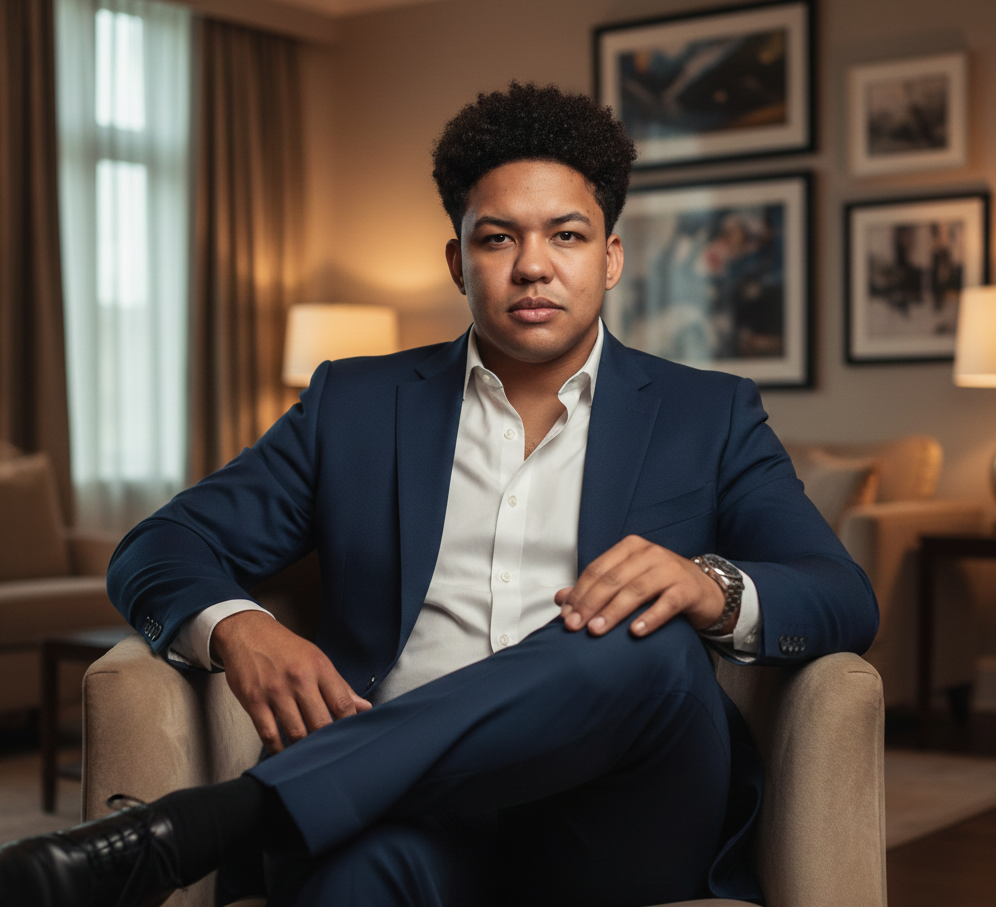
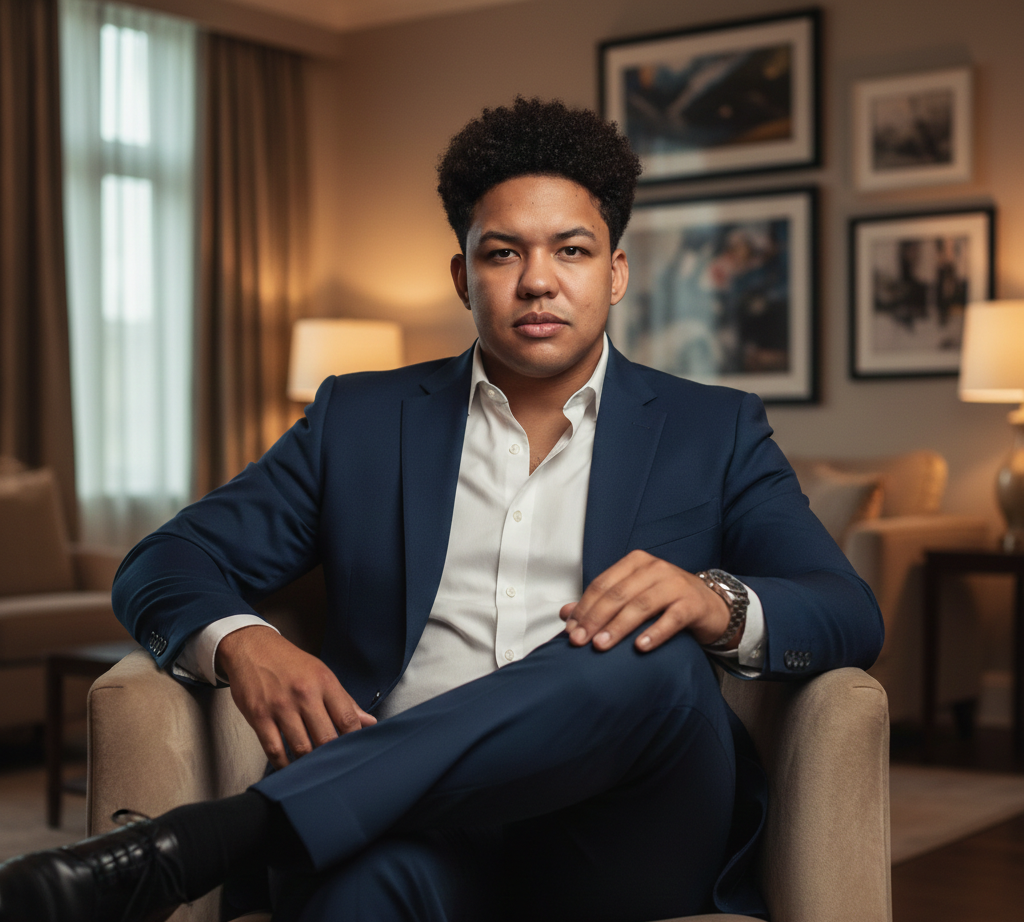
Changes

diff --git a/src/pages/Index.tsx b/src/pages/Index.tsx
@@ -382,49 +382,54 @@ const Index = () => {
       {/* Quem opera */}
       <section id="quem-opera" className="section-spacing border-b border-border">
         <div className="container-premium">
-          <div className="mx-auto max-w-2xl text-center">
-            <div className="scroll-reveal-scale mb-8">
+          <div className="grid gap-12 lg:gap-16 lg:grid-cols-2 items-center">
+            {/* Texto à esquerda */}
+            <div className="order-2 lg:order-1 text-center lg:text-left">
+              <h2 className="scroll-reveal font-display text-2xl font-semibold md:text-3xl lg:text-4xl text-foreground">
+                Quem está por trás da operação
+              </h2>
+              <p className="scroll-reveal reveal-delay-1 mt-6 text-muted-foreground leading-relaxed">
+                Alisson atua diretamente na coordenação, negociação e execução das demandas.<br />
+                O atendimento é feito sem intermediação, com padrão definido, previsibilidade e comunicação objetiva.
+              </p>
+              <div className="scroll-reveal reveal-delay-2 mt-8 flex items-center justify-center lg:justify-start gap-5">
+                <a
+                  href="https://www.instagram.com/alissonkennedy_/"
+                  target="_blank"
+                  rel="noopener noreferrer"
+                  className="h-10 w-10 rounded-full bg-primary/15 flex items-center justify-center text-primary transition-all duration-300 hover:bg-primary hover:text-primary-foreground hover:scale-110 border border-primary/30"
+                  aria-label="Instagram"
+                >
+                  <Instagram className="h-5 w-5" />
+                </a>
+                <a
+                  href="https://www.linkedin.com/in/alisson-kennedy/"
+                  target="_blank"
+                  rel="noopener noreferrer"
+                  className="h-10 w-10 rounded-full bg-primary/15 flex items-center justify-center text-primary transition-all duration-300 hover:bg-primary hover:text-primary-foreground hover:scale-110 border border-primary/30"
+                  aria-label="LinkedIn"
+                >
+                  <Linkedin className="h-5 w-5" />
+                </a>
+              </div>
+              <a
+                href={WHATSAPP_URL}
+                target="_blank"
+                rel="noopener noreferrer"
+                className="scroll-reveal reveal-delay-3 btn-primary mt-10 inline-flex"
+              >
+                Falar com o Alisson
+              </a>
+            </div>
+            
+            {/* Foto à direita */}
+            <div className="order-1 lg:order-2 scroll-reveal-scale flex justify-center lg:justify-end">
               <img 
                 src={alissonPhoto} 
                 alt="Alisson Kennedy - Assistente Pessoal Premium em São Paulo" 
-                className="w-40 h-40 md:w-48 md:h-48 rounded-full mx-auto object-cover border-4 border-primary/30 shadow-lg"
+                className="w-80 h-80 md:w-[400px] md:h-[400px] lg:w-[450px] lg:h-[450px] rounded-2xl object-cover border-4 border-primary/30 shadow-2xl"
               />
             </div>
-            <h2 className="scroll-reveal font-display text-2xl font-semibold md:text-3xl lg:text-4xl text-foreground">
-              Quem está por trás da operação
-            </h2>
-            <p className="scroll-reveal reveal-delay-1 mt-6 text-muted-foreground leading-relaxed">
-              Alisson atua diretamente na coordenação, negociação e execução das demandas.<br />
-              O atendimento é feito sem intermediação, com padrão definido, previsibilidade e comunicação objetiva.
-            </p>
-            <div className="scroll-reveal reveal-delay-2 mt-8 flex items-center justify-center gap-5">
-              <a
-                href="https://www.instagram.com/alissonkennedy_/"
-                target="_blank"
-                rel="noopener noreferrer"
-                className="h-10 w-10 rounded-full bg-primary/15 flex items-center justify-center text-primary transition-all duration-300 hover:bg-primary hover:text-primary-foreground hover:scale-110 border border-primary/30"
-                aria-label="Instagram"
-              >
-                <Instagram className="h-5 w-5" />
-              </a>
-              <a
-                href="https://www.linkedin.com/in/alisson-kennedy/"
-                target="_blank"
-                rel="noopener noreferrer"
-                className="h-10 w-10 rounded-full bg-primary/15 flex items-center justify-center text-primary transition-all duration-300 hover:bg-primary hover:text-primary-foreground hover:scale-110 border border-primary/30"
-                aria-label="LinkedIn"
-              >
-                <Linkedin className="h-5 w-5" />
-              </a>
-            </div>
-            <a
-              href={WHATSAPP_URL}
-              target="_blank"
-              rel="noopener noreferrer"
-              className="scroll-reveal reveal-delay-3 btn-primary mt-10"
-            >
-              Falar com o Alisson
-            </a>
           </div>
         </div>
       </section>
